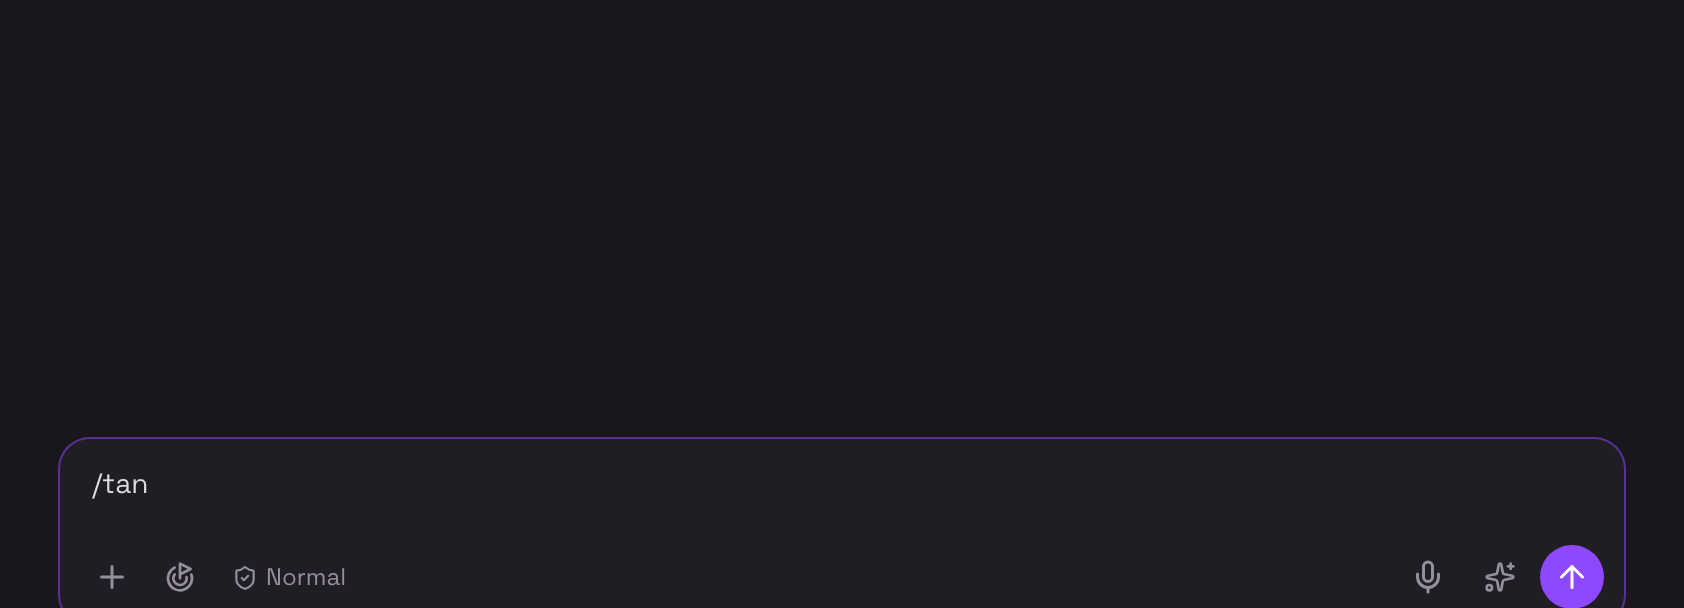
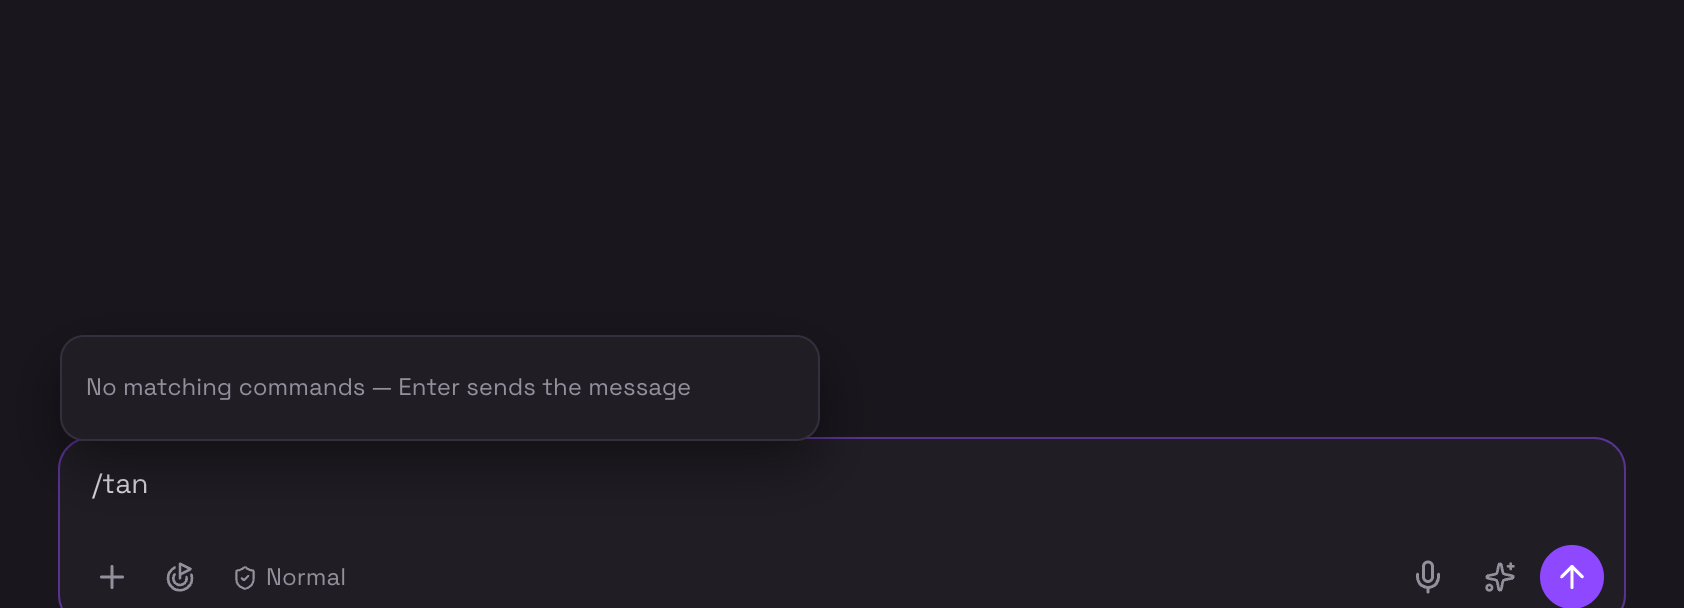
feat: rename the direct QE slash command to /quality-review
/crew quality-engineering <request> carried a redundant subcommand while
only one crew package is exposed; collapse it to /quality-review <request>
across the dispatcher, command catalogs, i18n keys, tests, docs, and the
screenshot harness.

Changed region(s): [[0.0618, 0.7188, 0.4632, 0.75], [0.0618, 0.5312, 0.4632, 0.5625], [0.0309, 0.625, 0.4014, 0.6562]]

diff --git a/website/src/components/SlashCommandMenu.tsx b/website/src/components/SlashCommandMenu.tsx
@@ -51,7 +51,7 @@ const COMMAND_DESC_KEY: Record<string, string> = {
   '/code': 'components.slashCommandMenu.desc_code',
   '/compact': 'components.slashCommandMenu.desc_compact',
   '/context': 'components.slashCommandMenu.desc_context',
-  '/crew': 'components.slashCommandMenu.desc_crew',
+  '/quality-review': 'components.slashCommandMenu.desc_quality_review',
   '/editor': 'components.slashCommandMenu.desc_editor',
   '/exit': 'components.slashCommandMenu.desc_exit',
   '/experiment': 'components.slashCommandMenu.desc_experiment',
@@ -103,8 +103,8 @@ function commandDescription(cmd: SlashCommand): string {
 // COMMAND_DESC_KEY either way. /kb is a frontend-only command (also merged
 // via FRONTEND_COMMANDS below).
 const FALLBACK_COMMAND_NAMES = [
-  '/agent', '/changelog', '/clear', '/code', '/compact', '/context', '/crew',
-  '/experiment', '/help', '/hooks', '/issue', '/kb', '/logdump',
+  '/agent', '/changelog', '/clear', '/code', '/compact', '/context',
+  '/experiment', '/help', '/hooks', '/issue', '/kb', '/logdump', '/quality-review',
   '/mcp', '/model', '/prompts', '/side', '/todos', '/tools', '/usage', '/workflow',
 ] as const
 

diff --git a/website/src/test/SlashCommandMenu.test.tsx b/website/src/test/SlashCommandMenu.test.tsx
@@ -112,7 +112,7 @@ describe('SlashCommandMenu offline fallback (blocked commands hidden)', () => {
     // Fallback renders synchronously as the query default; anchor on a
     // known-good fallback command before asserting absences.
     expect(await screen.findByText('/compact')).toBeInTheDocument()
-    expect(screen.getByText('/crew')).toBeInTheDocument()
+    expect(screen.getByText('/quality-review')).toBeInTheDocument()
     for (const cmd of BLOCKED) {
       expect(screen.queryByText(cmd)).not.toBeInTheDocument()
     }

diff --git a/test/test_quality_engineering_command.py b/test/test_quality_engineering_command.py
@@ -55,7 +55,7 @@ async def test_direct_quality_engineering_command_starts_bounded_full_review(tmp
         await chat_runner._handle_crew_command(
             state,
             slot,
-            "/crew quality-engineering Review release readiness",
+            "/quality-review Review release readiness",
         )
 
     offload.assert_awaited_once()
@@ -86,9 +86,7 @@ async def test_direct_quality_engineering_command_starts_bounded_full_review(tmp
 @pytest.mark.parametrize(
     "message",
     [
-        "/crew",
-        "/crew software-delivery fix the API",
-        "/crew quality-engineering",
+        "/quality-review",
     ],
 )
 async def test_direct_quality_engineering_command_rejects_invalid_syntax(tmp_path, message) -> None:
@@ -104,7 +102,7 @@ async def test_direct_quality_engineering_command_rejects_invalid_syntax(tmp_pat
     service.start.assert_not_awaited()
     assert state._automatic_route_runs == {}
     assert any(
-        "Usage: `/crew quality-engineering <request>`" in text for text in _slot_messages(slot)
+        "Usage: `/quality-review <request>`" in text for text in _slot_messages(slot)
     )
 
 
@@ -120,7 +118,7 @@ async def test_direct_quality_engineering_command_rejects_unbound_project(tmp_pa
     await chat_runner._handle_crew_command(
         state,
         slot,
-        "/crew quality-engineering Review the project",
+        "/quality-review Review the project",
     )
 
     service.start.assert_not_awaited()
@@ -145,12 +143,12 @@ async def test_run_chat_handles_direct_command_before_provider_acquisition(tmp_p
         await chat_runner._run_chat(
             state,
             slot,
-            "/crew quality-engineering Check release readiness",
+            "/quality-review Check release readiness",
         )
 
     handler.assert_awaited_once_with(
         state,
         slot,
-        "/crew quality-engineering Check release readiness",
+        "/quality-review Check release readiness",
     )
     assert not state.sessions.get_or_create.called

diff --git a/src/kiro_crew/dashboard/chat_runner.py b/src/kiro_crew/dashboard/chat_runner.py
@@ -3623,14 +3623,14 @@ def _direct_quality_project(slot: "_ChatSlot") -> tuple[str, str]:
 
 
 async def _handle_crew_command(state: "DashboardState", slot: "_ChatSlot", message: str) -> None:
-    """Handle the exact local ``/crew quality-engineering <request>`` command."""
+    """Handle the exact local ``/quality-review <request>`` command."""
 
-    parts = message.split(None, 2)
-    if len(parts) != 3 or parts[0] != "/crew" or parts[1] != "quality-engineering":
-        body = "Usage: `/crew quality-engineering <request>`."
+    parts = message.split(None, 1)
+    if len(parts) != 2 or parts[0] != "/quality-review":
+        body = "Usage: `/quality-review <request>`."
         outcome = "invalid_syntax"
     else:
-        request_text = parts[2].strip()
+        request_text = parts[1].strip()
         project_path, project_error = await asyncio.to_thread(_direct_quality_project, slot)
         service = getattr(state, "workflow_service", None)
         if not request_text:
@@ -3682,7 +3682,7 @@ async def _handle_crew_command(state: "DashboardState", slot: "_ChatSlot", messa
         session_key=slot.key,
         agent=slot.agent or "kirocrew",
         source="dashboard",
-        tool_name="/crew",
+        tool_name="/quality-review",
         tool_kind="slash_command",
         outcome=outcome,
         metadata={"slot": slot.key, "crew": "quality-engineering"},
@@ -5152,8 +5152,8 @@ async def _run_chat(
         slot.append("done", "", "done")
         return
 
-    # ── /crew quality-engineering: start the read-only QE workflow locally ──
-    if first_word == "/crew":
+    # ── /quality-review: start the read-only QE workflow locally ──
+    if first_word == "/quality-review":
         await _handle_crew_command(state, slot, message)
         return
 

diff --git a/src/kiro_crew/dashboard/chat_utils.py b/src/kiro_crew/dashboard/chat_utils.py
@@ -225,7 +225,6 @@ _SLASH_COMMANDS = frozenset(
         "/code",
         "/compact",
         "/context",
-        "/crew",
         "/editor",
         "/exit",
         "/experiment",
@@ -275,7 +274,7 @@ SLASH_COMMAND_DESCRIPTIONS: dict[str, str] = {
     "/code": "Open code intelligence tools",
     "/compact": "Compact conversation to free context",
     "/context": "Manage context files and token usage",
-    "/crew": "Run a read-only Quality Engineering review",
+    "/quality-review": "Run a read-only Quality Engineering review",
     "/editor": "Compose your prompt in an external editor",
     "/exit": "Exit the chat session",
     "/experiment": "Toggle experimental features",

diff --git a/docs/task-specs/2026/08/quality-engineering-crew/tasks.md b/docs/task-specs/2026/08/quality-engineering-crew/tasks.md
@@ -19,8 +19,8 @@ Worktree: `/home/user/kirocrew-wt-automatic-crew-routing` on `feat/automatic-cre
 - A native `quality_engineering` package with three private worker agents and four routes.
 - A schema-validated `QualityEvidenceRunner` boundary with explicit adapter/check registries.
 - Additive native dispatch and automatic routing for `quality-engineering`.
-- Local dashboard command `/crew quality-engineering <request>` using `full_quality_review`.
-- Backend and frontend slash-command catalogs that advertise `/crew` consistently.
+- Local dashboard command `/quality-review <request>` using `full_quality_review`.
+- Backend and frontend slash-command catalogs that advertise `/quality-review` consistently.
 - Focused contract, safety, routing, command, and report-aggregation tests.
 - Updated existing system-spec documentation for the shipped dashboard, runner, and error behavior.
 
@@ -78,14 +78,14 @@ Worktree: `/home/user/kirocrew-wt-automatic-crew-routing` on `feat/automatic-cre
 
 - [ ] 6.1 Update `dashboard/chat_handlers.py` imports and `_automatic_route_args()` to map all supported Crew ids explicitly; unknown ids must not fall through to Knowledge Quality.
 - [ ] 6.2 Pass Quality Engineering requests with the authoritative `project_path` and the selected route while preserving the existing software/knowledge argument shapes.
-- [ ] 6.3 Refactor the shared workflow-start/acknowledgement seam only as needed so automatic routing and direct `/crew` invocation converge on the same workflow source, args, run tracking, and busy/queue behavior.
+- [ ] 6.3 Refactor the shared workflow-start/acknowledgement seam only as needed so automatic routing and direct `/quality-review` invocation converge on the same workflow source, args, run tracking, and busy/queue behavior.
 - [ ] 6.4 Extend `test/test_automatic_crew_chat.py` to assert the Quality Engineering workflow name, route, project path, service-start metadata, and default fallback behavior.
 
-## 7. Direct `/crew` command
+## 7. Direct `/quality-review` command
 
-- [ ] 7.1 Add `/crew` to `_SLASH_COMMANDS` and `SLASH_COMMAND_DESCRIPTIONS` in `dashboard/chat_utils.py`; keep it out of `_BLOCKED_SLASH_COMMANDS`.
-- [ ] 7.2 Parse `/crew` locally in `dashboard/chat_runner.py` before provider session acquisition, alongside the existing local command handlers.
-- [ ] 7.3 Accept exactly `/crew quality-engineering <request>` for this feature. Reject missing request text, unknown Crew ids, unknown subcommands, and malformed input with bounded user-facing errors and no provider session.
+- [ ] 7.1 Add `/quality-review` to `_SLASH_COMMANDS` and `SLASH_COMMAND_DESCRIPTIONS` in `dashboard/chat_utils.py`; keep it out of `_BLOCKED_SLASH_COMMANDS`.
+- [ ] 7.2 Parse `/quality-review` locally in `dashboard/chat_runner.py` before provider session acquisition, alongside the existing local command handlers.
+- [ ] 7.3 Accept exactly `/quality-review <request>` for this feature. Reject missing request text, unknown Crew ids, unknown subcommands, and malformed input with bounded user-facing errors and no provider session.
 - [ ] 7.4 Resolve the active slot's project binding, require an absolute non-sensitive path, and start the same native workflow with `full_quality_review`; do not use a message-supplied path as authority.
 - [ ] 7.5 Preserve the slot's active agent and mode, do not expose worker names, do not enter Crew Mode, and preserve existing busy-slot queue/hold semantics.
 - [ ] 7.6 Track the direct run in the same dashboard state used by automatic routes, emit the normal acknowledgement/status update, and ensure failures remain visible as blocked rather than silently falling through to the provider.
@@ -93,15 +93,15 @@ Worktree: `/home/user/kirocrew-wt-automatic-crew-routing` on `feat/automatic-cre
 
 ## 8. Slash-command API and frontend autocomplete
 
-- [ ] 8.1 Rely on the backend command catalog for the live dashboard API; add tests in `test/test_api_slash_commands.py` that `/crew` has a non-empty description and is returned while blocked commands remain absent.
-- [ ] 8.2 Update `website/src/components/SlashCommandMenu.tsx` `COMMAND_DESC_KEY` and offline fallback names with `/crew`.
+- [ ] 8.1 Rely on the backend command catalog for the live dashboard API; add tests in `test/test_api_slash_commands.py` that `/quality-review` has a non-empty description and is returned while blocked commands remain absent.
+- [ ] 8.2 Update `website/src/components/SlashCommandMenu.tsx` `COMMAND_DESC_KEY` and offline fallback names with `/quality-review`.
 - [ ] 8.3 Add the localized `components.slashCommandMenu.desc_crew` key through the repository's i18n catalog workflow for every supported locale/source catalog; do not hardcode a user-facing string in the component.
-- [ ] 8.4 Extend `website/src/test/SlashCommandMenu.test.tsx` to cover `/crew` in the resolved API path and offline fallback path without reintroducing blocked commands.
+- [ ] 8.4 Extend `website/src/test/SlashCommandMenu.test.tsx` to cover `/quality-review` in the resolved API path and offline fallback path without reintroducing blocked commands.
 - [ ] 8.5 Read `website/docs/i18n-catalog.md` and `website/docs/testing.md` before touching frontend files; use `npx tsc -b` or the build path rather than the known zero-file `npm run typecheck` shortcut.
 
 ## 9. Documentation updates
 
-- [ ] 9.1 Update `docs/system-specs/modules/learn-cron-dashboard.md` with the shipped `/crew quality-engineering` command, automatic route eligibility, project-binding requirement, run tracking, and default fallback behavior.
+- [ ] 9.1 Update `docs/system-specs/modules/learn-cron-dashboard.md` with the shipped `/quality-review` command, automatic route eligibility, project-binding requirement, run tracking, and default fallback behavior.
 - [ ] 9.2 Update `docs/system-specs/common/error-handling.md` with the bounded Quality Engineering error/status surface, partial-result behavior, and fail-closed evidence rules.
 - [ ] 9.3 Update `docs/system-specs/modules/browser.md` only for the shipped adapter boundary or capability semantics that change its documented contract; keep the existing browser install/consent model unchanged.
 - [ ] 9.4 Update `docs/system-specs/modules/computer-use.md` only if the simulator/desktop adapter crosses its documented boundary; do not grant computer-use permissions to the read-only roles.

diff --git a/docs/design/2026-08-20-quality-engineering-crew.md b/docs/design/2026-08-20-quality-engineering-crew.md
@@ -13,7 +13,7 @@ That work should be represented by a dedicated read-only Crew rather than by add
 - Add a native `quality-engineering` Crew package parallel to the existing Crew packages.
 - Provide three read-only roles: QA Strategist, E2E Engineer, and UX Reviewer.
 - Route high-confidence QA, E2E, UX, and release-readiness requests automatically.
-- Support deterministic direct invocation through `/crew quality-engineering <request>`.
+- Support deterministic direct invocation through `/quality-review <request>`.
 - Run real E2E checks through a bounded runner in an isolated environment.
 - Produce schema-validated, bounded reports with evidence, findings, gaps, and next actions.
 - Fail closed on missing project bindings, unavailable capabilities, invalid handoffs, timeouts, and incomplete evidence.
@@ -126,7 +126,7 @@ All automatic routes use the existing fixed dynamic workflow source and the addi
 The dashboard recognizes:
 
 ```text
-/crew quality-engineering <request>
+/quality-review <request>
 ```
 
 The command is parsed locally before provider session acquisition. It validates the exact Crew id, requires a non-empty request, preserves the slot's active agent, and starts the same native workflow used by automatic routing with `full_quality_review`.
@@ -138,7 +138,7 @@ The command does not expose internal role aliases, does not change the slot into
 ```text
 ordinary message ──┐
                    ├─ route decision ──┐
-/crew command ─────┘                   │
+/quality-review command ─────┘                   │
                                        ▼
                  __kirocrew.crew.quality-engineering
                                        │
@@ -268,7 +268,7 @@ User-facing text goes through the existing localization path; internal details r
 
 - Route high-confidence QA, E2E, UX, and release-readiness messages to the expected Crew and route.
 - Preserve default behavior for ordinary, ambiguous, and unbound messages.
-- Parse `/crew quality-engineering <request>` locally, reject unknown Crew ids and empty requests, and preserve active-agent/queue semantics.
+- Parse `/quality-review <request>` locally, reject unknown Crew ids and empty requests, and preserve active-agent/queue semantics.
 - Verify automatic and direct entry points converge on the same internal workflow.
 
 ### Runner and safety tests
@@ -290,7 +290,7 @@ The change is additive:
 - Existing Software Delivery and Knowledge Quality ids and routes remain unchanged.
 - Existing ordinary chat remains on the default agent path unless the new high-confidence markers match.
 - Internal worker names remain hidden from public agent aliases.
-- The new `/crew` command is only a Crew-level entry point and does not change `/agent` semantics.
+- The new `/quality-review` command is only a Crew-level entry point and does not change `/agent` semantics.
 - The live Gateway is not modified during development; the feature is validated in the dedicated worktree and becomes available to the current dashboard only after the feature is merged, built, deployed, and restarted.
 
 Implementation begins only after this proposal has been reviewed. The proposal itself does not authorize a commit, push, merge, or live Gateway restart.

diff --git a/docs/system-specs/modules/learn-cron-dashboard.md b/docs/system-specs/modules/learn-cron-dashboard.md
@@ -667,7 +667,7 @@ Ordinary dashboard chat uses the pure `automatic_routing.classify_message()` con
 
 Quality Engineering routes are `qa_plan`, `e2e_validation`, `ux_review`, and `full_quality_review`. High-confidence examples are `Create a test plan`, `Review Playwright browser flow`, `Review accessibility and usability`, and `Check release readiness with full validation`. The Crew is composed of hidden, report-only QA Strategist, E2E Engineer, and UX Reviewer roles. They are read-only and cannot write source/config, commit, push, deploy, or invoke arbitrary shell commands.
 
-`POST /api/chat` starts the shared `automatic-crew-routing` workflow for a high-confidence QE decision and forwards only bounded route data, the active project path, and package-registered E2E check IDs. The exact local command `/crew quality-engineering <request>` bypasses provider-session acquisition, validates the active slot project, and starts `full_quality_review` with the package's default evidence checks. Invalid syntax, an unbound project, unavailable workflow service, or failed start produces a local blocked acknowledgement and never falls through to an ACP session.
+`POST /api/chat` starts the shared `automatic-crew-routing` workflow for a high-confidence QE decision and forwards only bounded route data, the active project path, and package-registered E2E check IDs. The exact local command `/quality-review <request>` bypasses provider-session acquisition, validates the active slot project, and starts `full_quality_review` with the package's default evidence checks. Invalid syntax, an unbound project, unavailable workflow service, or failed start produces a local blocked acknowledgement and never falls through to an ACP session.
 
 QE evidence execution is bounded and fail-closed: checks come from an explicit package registry and use fixed argv, run in a disposable copied workspace with a restricted environment, and enforce timeouts, output caps, process-group cleanup, redacted evidence persistence, and evidence-root confinement. The built-in Playwright/browser/iOS checks are capability probes; a probe result is never presented as a passing application E2E result. Application E2E checks must be explicitly registered with `evidence_kind="application_e2e"`. Missing capabilities, failed checks, runner failures, malformed role handoffs, schema violations, or unbounded payloads block the route rather than producing a partial pass. `full_quality_review` emits a schema-validated aggregate `quality_report` only after all required role reports and application evidence pass.
 

diff --git a/docs/system-specs/common/error-handling.md b/docs/system-specs/common/error-handling.md
@@ -46,6 +46,8 @@ The native Quality Engineering Crew (`quality-engineering`) treats every unverif
 quality result as blocked. Request validation rejects missing, relative, sensitive,
 traversing, symlinked, or unresolvable project paths; direct `/quality-review` syntax
 and the active slot project are validated before any workflow or provider session is used.
+traversing, symlinked, or unresolvable project paths; direct `/quality-review` syntax and the
+active slot project are validated before any workflow or provider session is used.
 
 Evidence checks are package-registered fixed argv only. A missing executable,
 unknown adapter/check, timeout, output overflow, non-zero exit, workspace-copy
